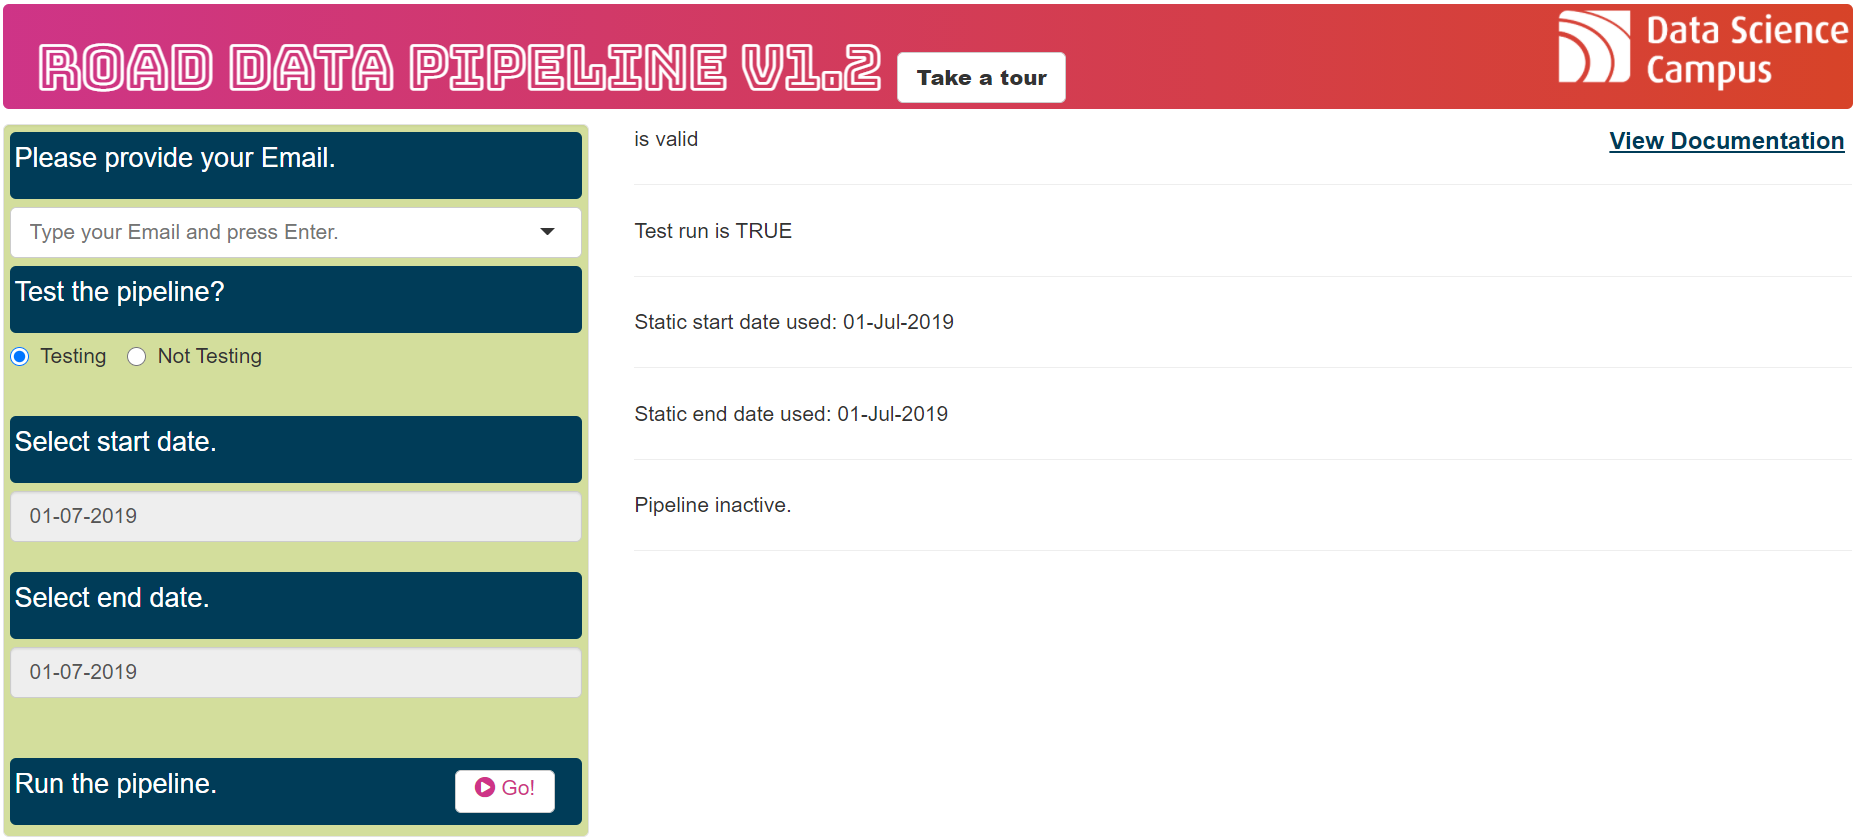
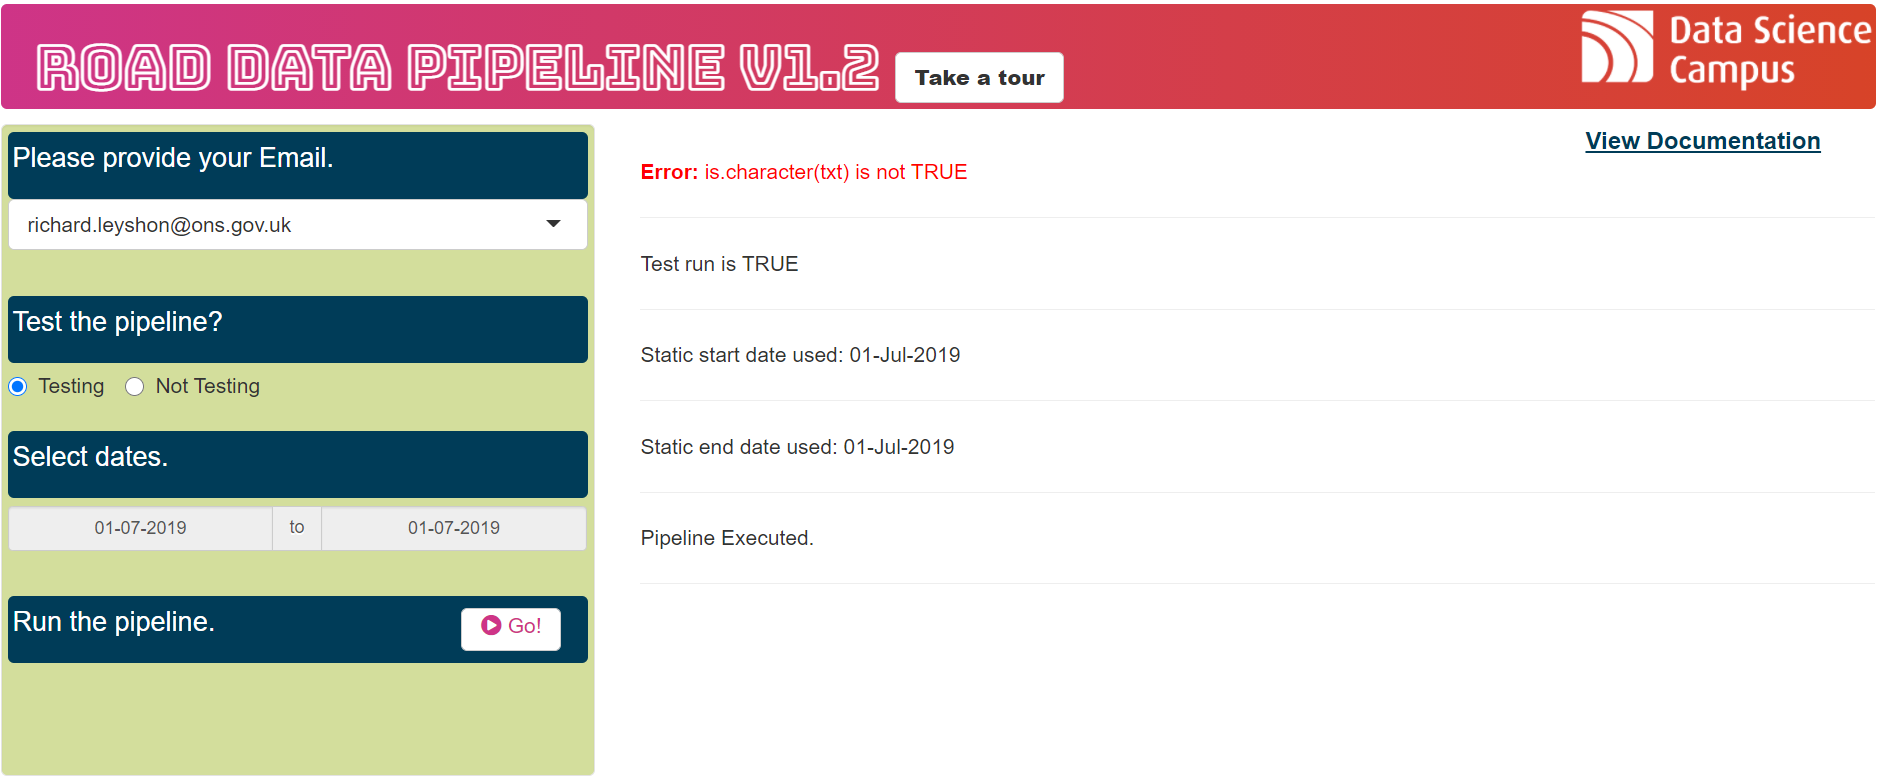
now using daterange input

Changed region(s): [[0.0, 0.0, 0.9989, 0.8582], [0.0, 0.8889, 0.3434, 1.0], [0.3434, 0.4291, 0.5307, 0.5211]]

diff --git a/app/www/style/style.css b/app/www/style/style.css
@@ -6,8 +6,7 @@ p {
   color: #003c58;
 }
 
-
-/*Nudge sidebar elements up 20px*/
+/*Nudge sidebar elements upwards*/
 
 #Email {
   position: relative;
@@ -15,40 +14,28 @@ p {
 }
 #EmailInput {
   position: relative;
-  bottom: 25px;
+  bottom: 30px;
 }
 
 #testpipeline {
   position: relative;
   bottom: 25px;
 }
-#user_start {
-  position: relative;
-  bottom: 25px;
-}
-#user_end {
-  position: relative;
-  bottom: 25px;
-}
+
 
 #testing {
   position: relative;
-  bottom: 35px;
+  bottom: 15px;
 }
 
-#s_date {
+#daterange{
   position: relative;
-  bottom: 35px;
-}
-
-#e_date {
-  position: relative;
-  bottom: 45px;
+  bottom: 25px;
 }
 
 #runpipeline{
   position: relative;
-  bottom: 35px;
+  bottom: 25px;
 }
 
 
@@ -121,7 +108,6 @@ h4 {
 #optional {
   display: block;
   position: relative;
-  /*right: 2.5%;*/
   width: 150%;
 }
 

diff --git a/README.md b/README.md
@@ -11,7 +11,7 @@ Also locally available in `./docs/index.html`.
 * User Interface for setting query parameters & executing pipeline.
 * user Email input
 * Test pipeline toggle radio buttons.
-* Date inputs.
+* Daterange input.
 * Output all parameters to cache for pipeline execution.
 * Action button to execute run.
 * Pipeline adjusted to read parameters from cache.
